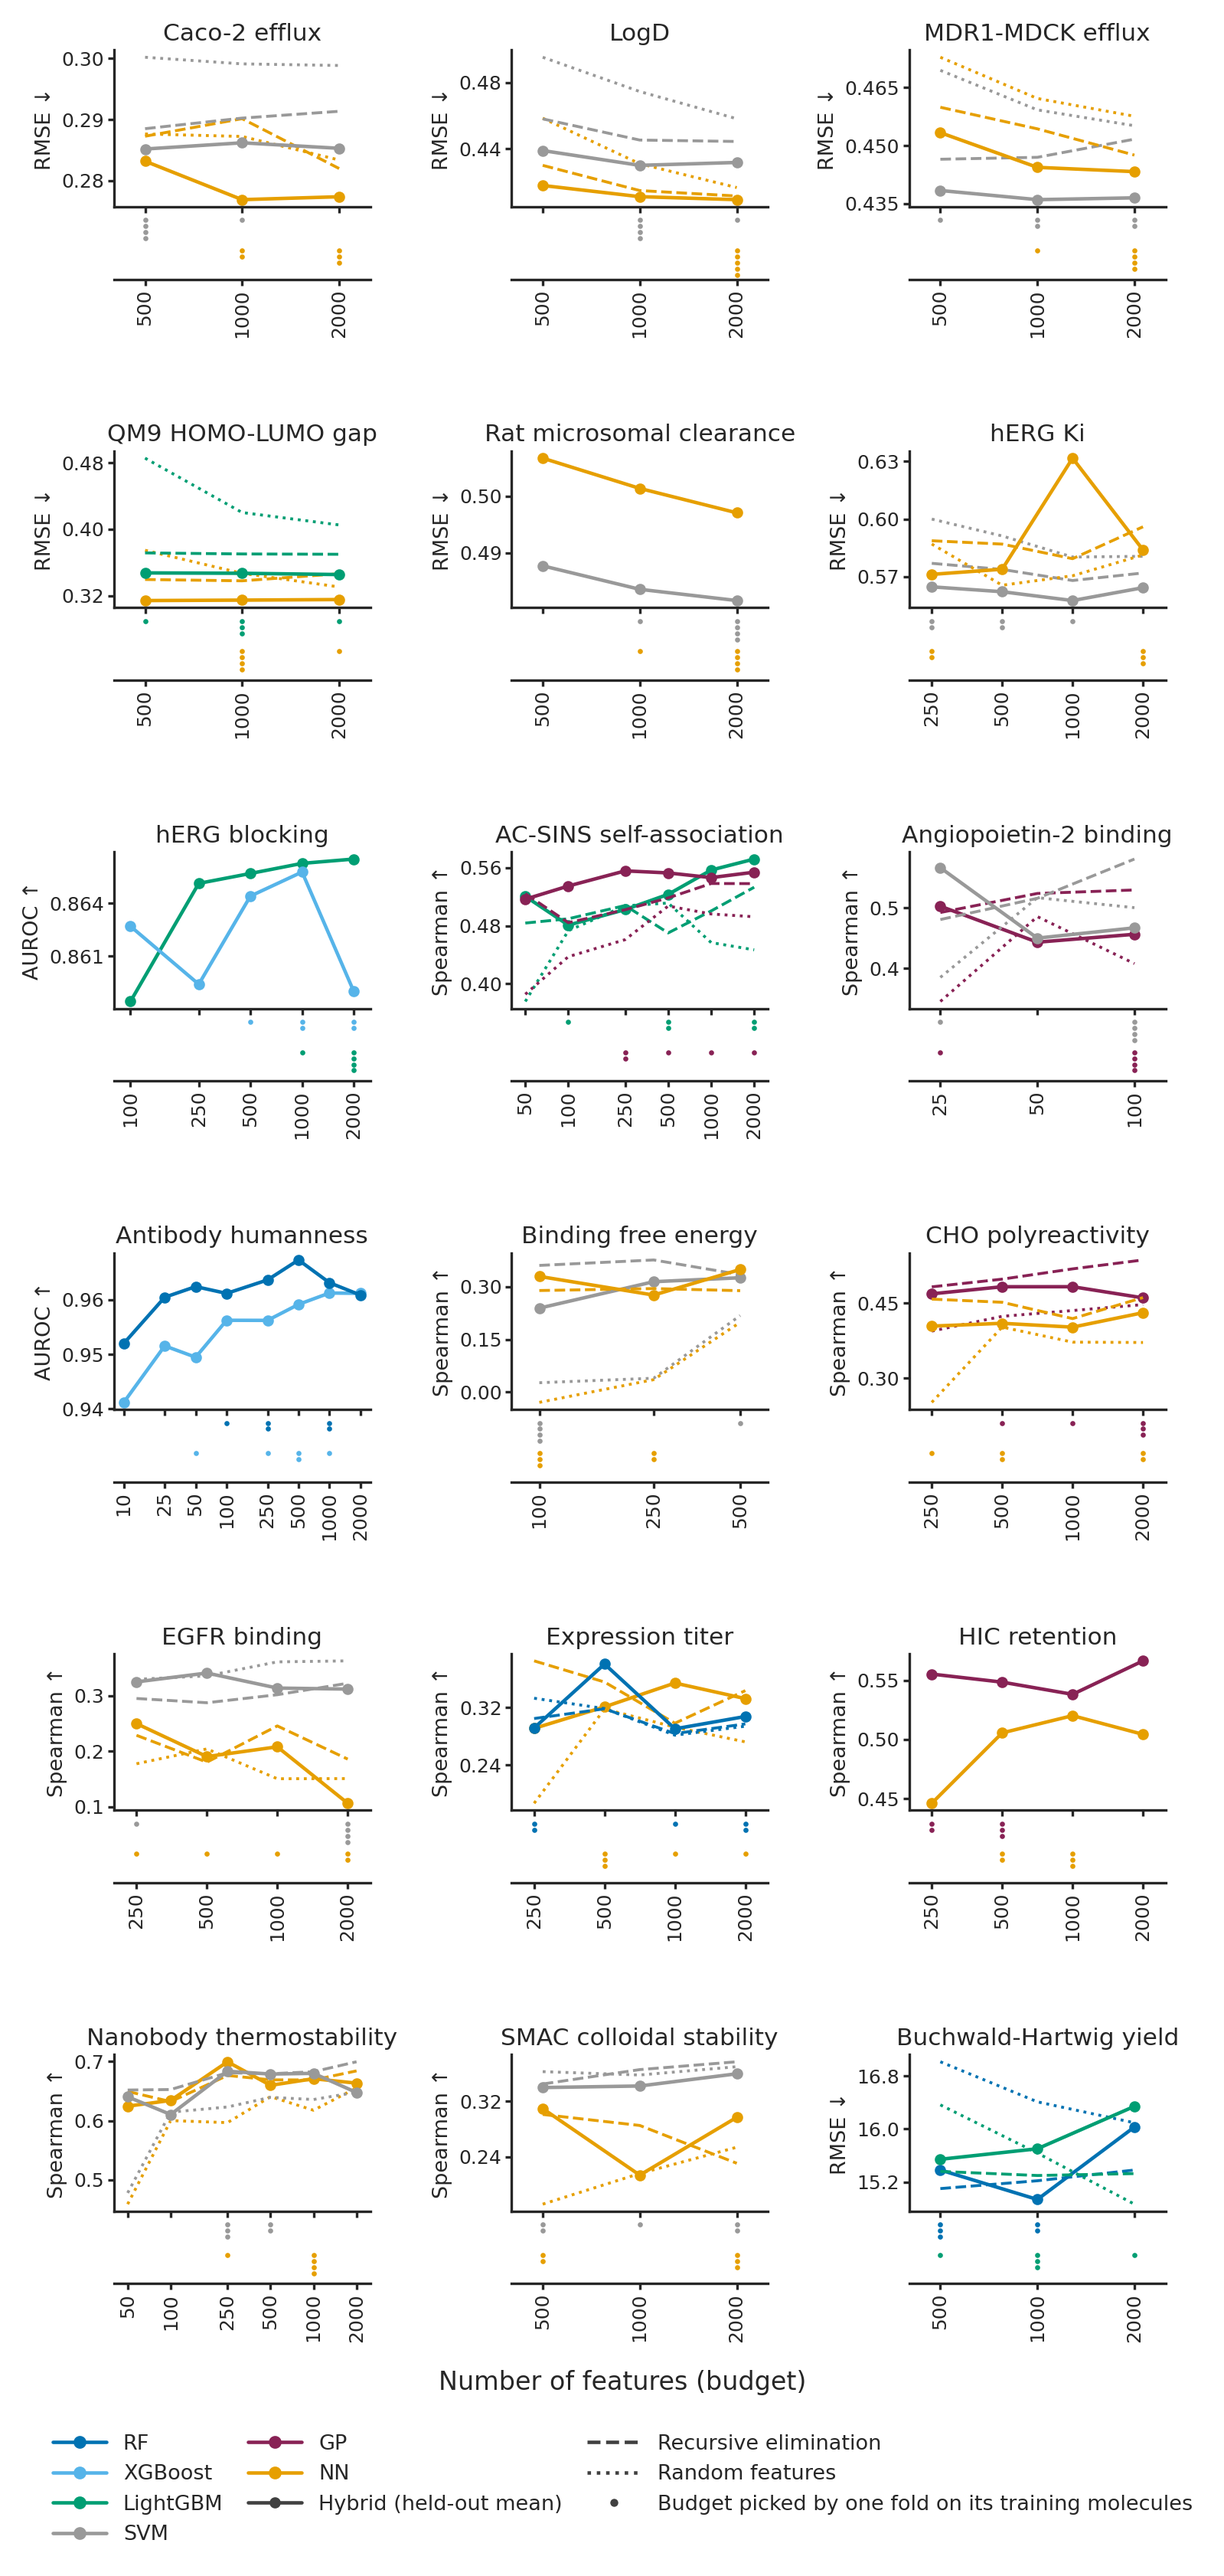
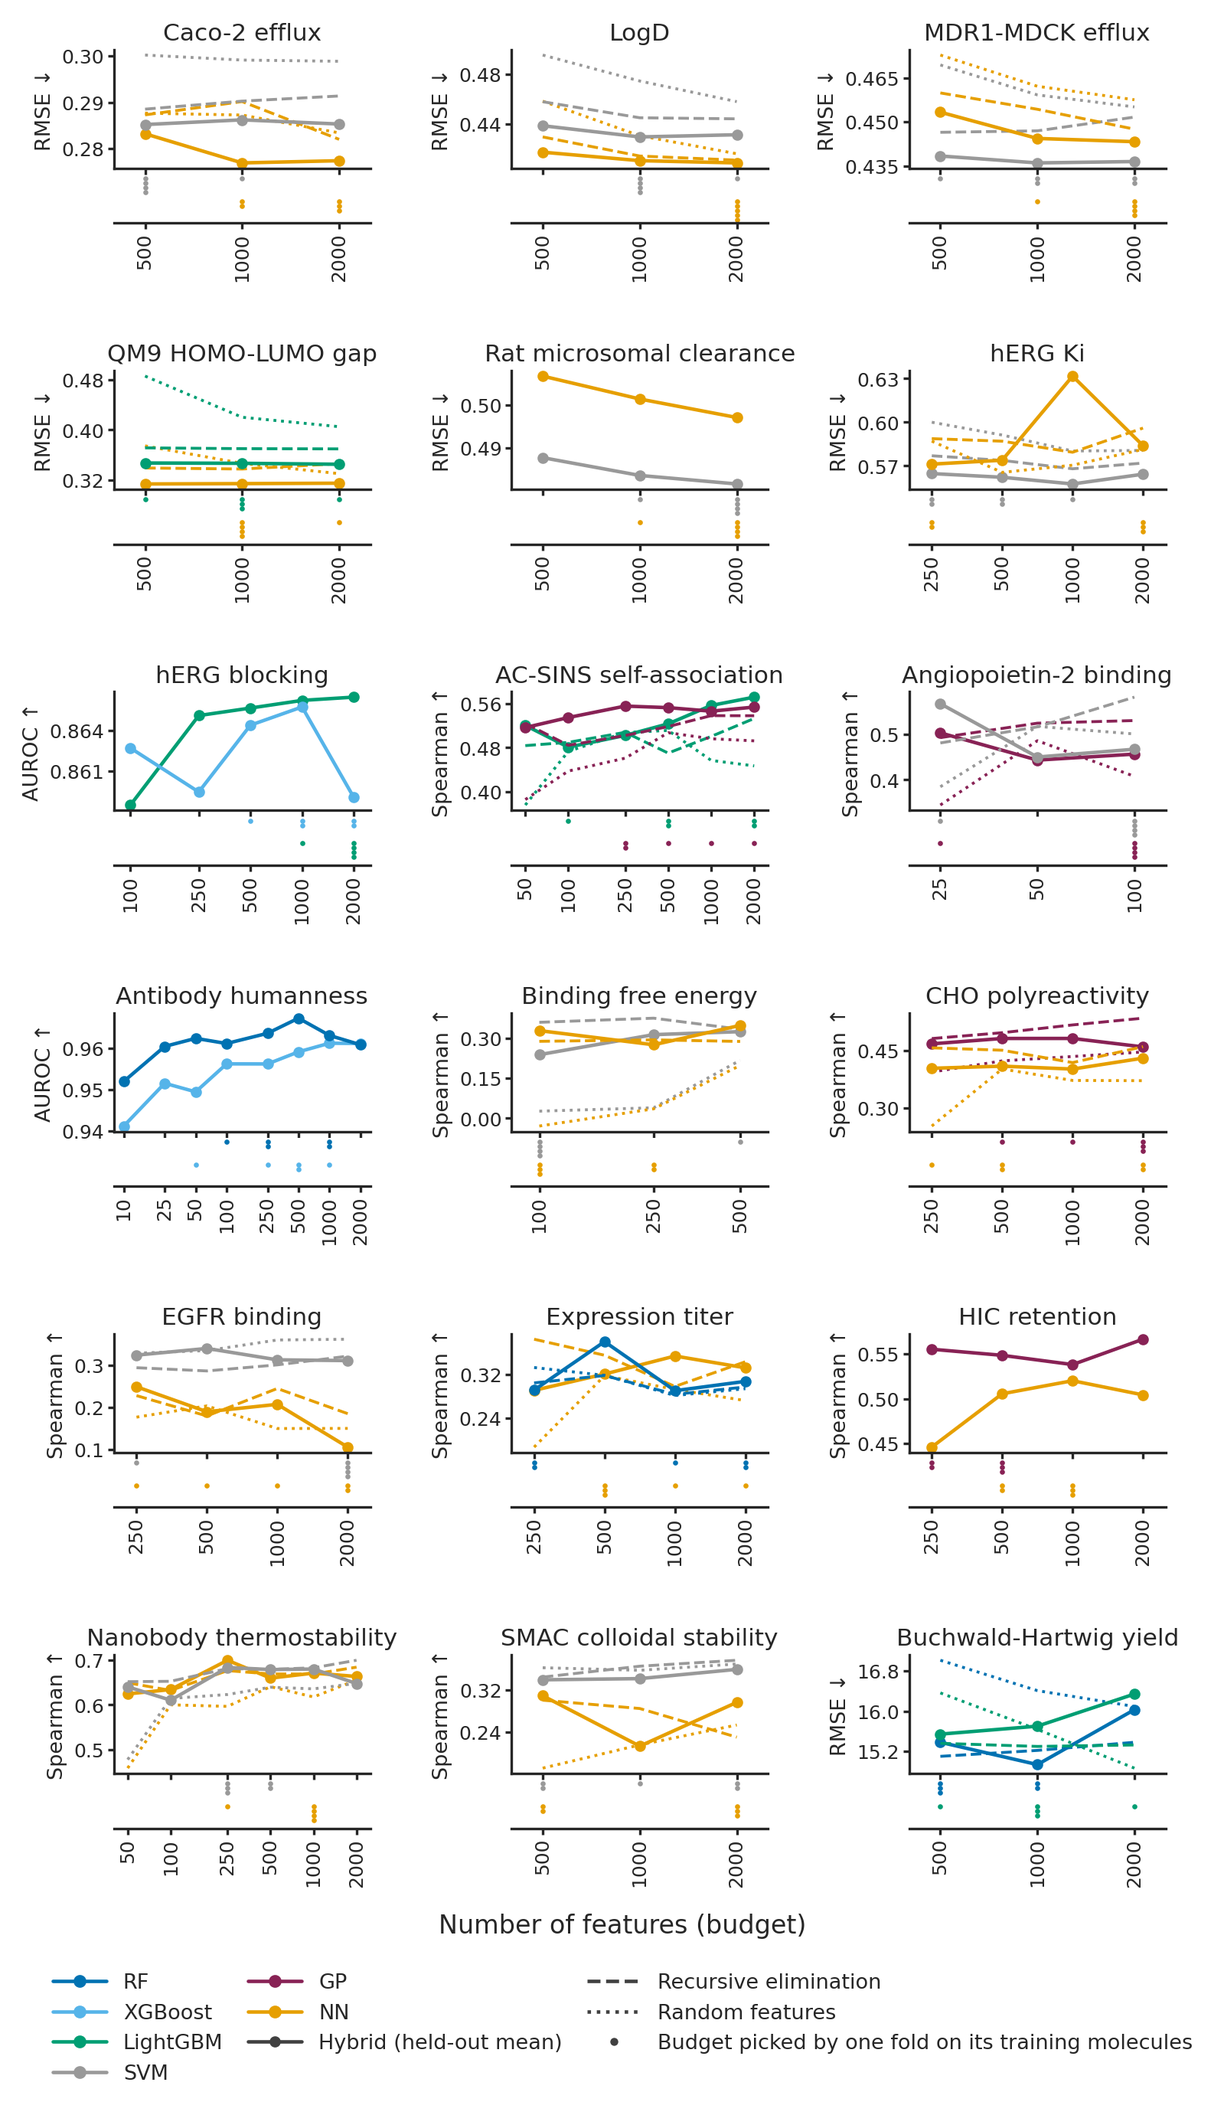
thesis_figures F2a: shorter panels so the figure fits one page

diff --git a/tests/analysis/thesis_figures.py b/tests/analysis/thesis_figures.py
@@ -393,8 +393,8 @@ def fig_f2a(root, out, args, missing):
     for ds in sorted({r['dataset'] for r in picks} - set(order)):
         missing(f'{ds}: c02 picks exist but no c09 score curve, so no panel')
     nrow = -(-len(order) // F2A_NCOL)
-    fig = plt.figure(figsize=(S.TEXTWIDTH_IN, 1.75 * nrow + 0.3))
-    outer = fig.add_gridspec(nrow, F2A_NCOL, hspace=0.75, wspace=0.55, bottom=0.075, top=0.975)
+    fig = plt.figure(figsize=(S.TEXTWIDTH_IN, 1.4 * nrow + 0.3))
+    outer = fig.add_gridspec(nrow, F2A_NCOL, hspace=0.85, wspace=0.55, bottom=0.085, top=0.975)
     marks = []
     for i, ds in enumerate(order):
         sub = outer[i // F2A_NCOL, i % F2A_NCOL].subgridspec(2, 1, height_ratios=[3.2, 1.3], hspace=0.08)
